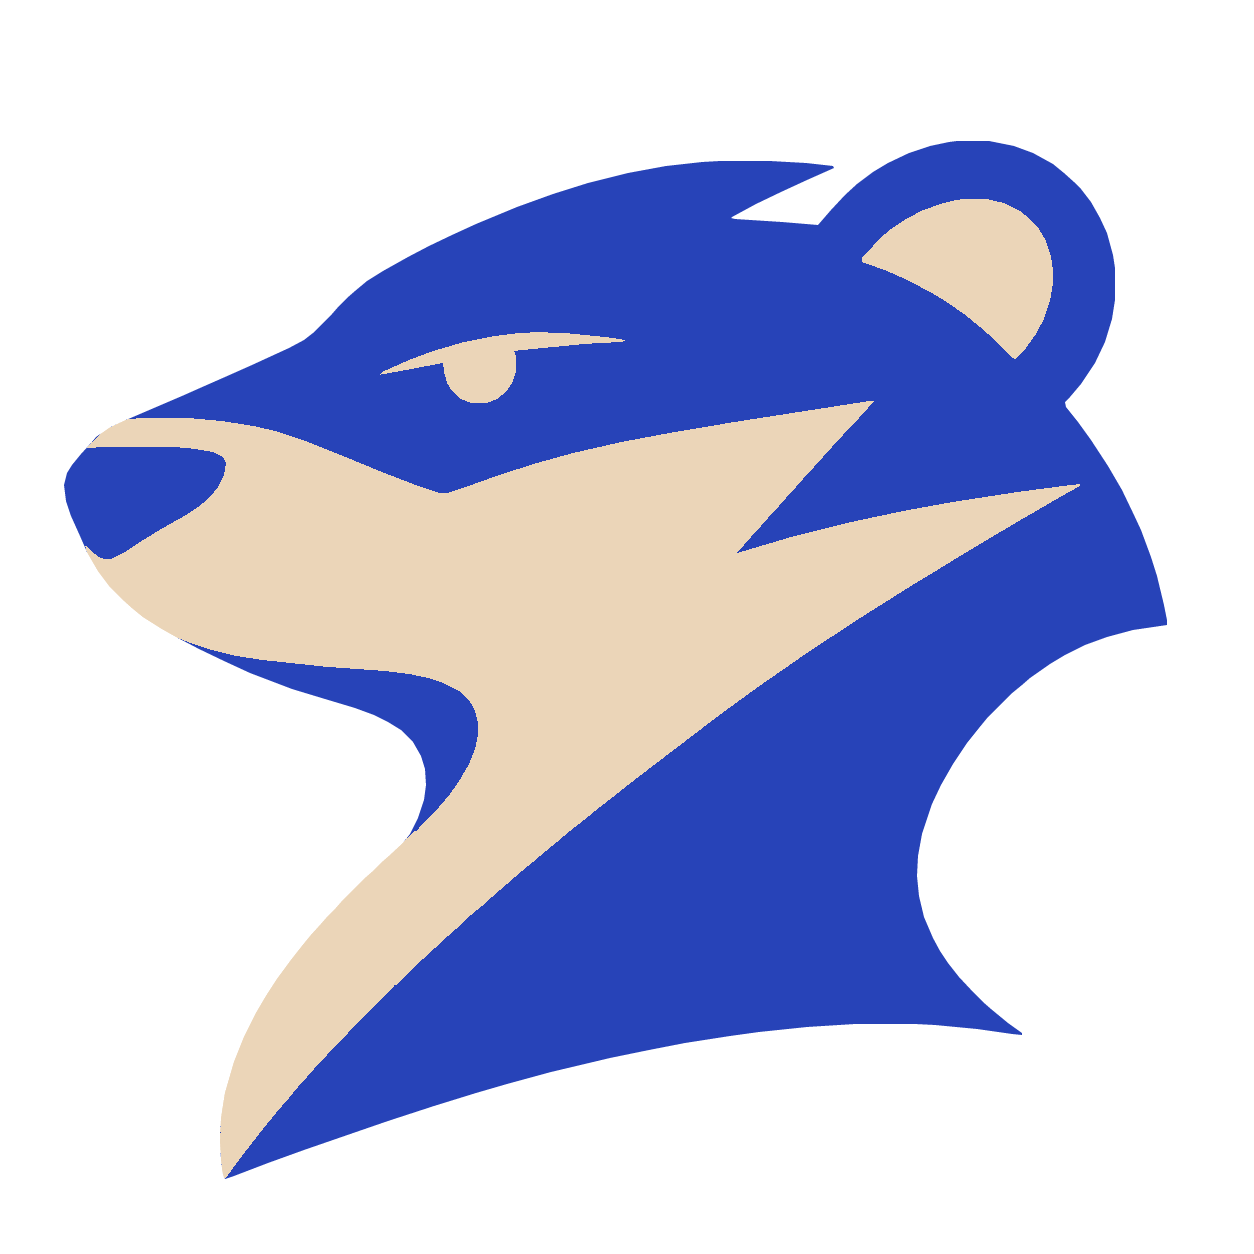
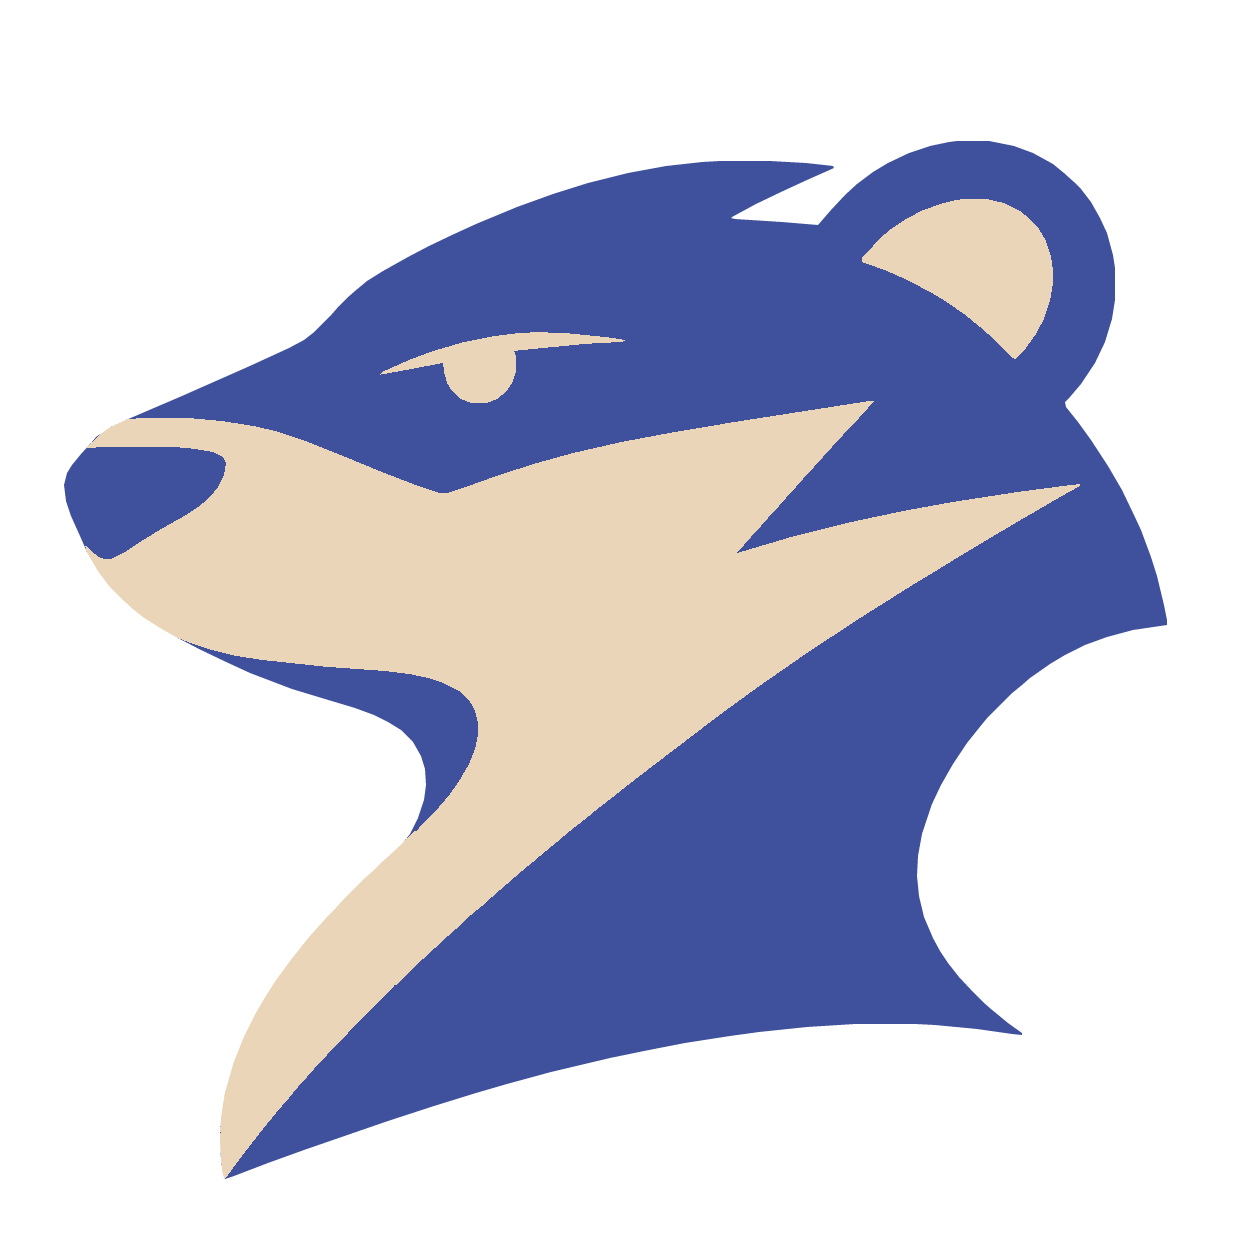
Refresh Graphic Evolution colors and add example sheets

Changed region(s): [[0.0311, 0.0933, 0.933, 0.933], [0.1555, 0.4976, 0.4043, 0.6531]]

diff --git a/Craft-Icons-OmegaDarling/README.md b/Craft-Icons-OmegaDarling/README.md
@@ -4,15 +4,17 @@
 
 Five graphic animal themes with reduced palettes and transparent backgrounds:
 
-| Theme | Style | App icons |
-| --- | --- | --- |
-| [Paperflow](Paperflow/) | Broad, flowing paper shapes | 19 |
-| [Softform](Softform/) | Rounded, interlocking forms | 19 |
-| [Edgework](Edgework/) | Bold, angular planes | 19 |
-| [Counterform](Counterform/) | Strong silhouettes and negative space | 19 |
-| [Foldmark](Foldmark/) | Folded bands and flowing emblems | 19 |
+| Theme | Style | App icons | Example sheet |
+| --- | --- | --- | --- |
+| [Paperflow](Paperflow/) | Broad, flowing paper shapes | 19 | [Preview](Paperflow.png) |
+| [Softform](Softform/) | Rounded, interlocking forms | 19 | [Preview](Softform.png) |
+| [Edgework](Edgework/) | Bold, angular planes | 19 | [Preview](Edgework.png) |
+| [Counterform](Counterform/) | Strong silhouettes and negative space | 19 | [Preview](Counterform.png) |
+| [Foldmark](Foldmark/) | Folded bands and flowing emblems | 19 | [Preview](Foldmark.png) |
 
-Each theme includes 1254×1254 PNG artwork for all 19 Craft apps. CADCraft uses the ant mascot, named `cadcraft.png`. The other files follow the existing app-name convention, including `PhotoCraft.png` and `Craft Anything.png`.
+Each theme includes the latest approved 1254×1254 PNG artwork for all 19 Craft apps, including the current edited colors. CADCraft uses the ant mascot, named `cadcraft.png`. The other files follow the existing app-name convention, including `PhotoCraft.png` and `Craft Anything.png`.
+
+Each example sheet shows all 19 current icons with app labels and the style name on a dark gray background. The sheets are previews; individual icons are in their matching theme folders.
 
 Select these themes from the normal Linux installer or Windows icon-pack list. Windows builds generate the shortcut ICOs from the PNGs and retain the original PNGs for larger previews.
 
